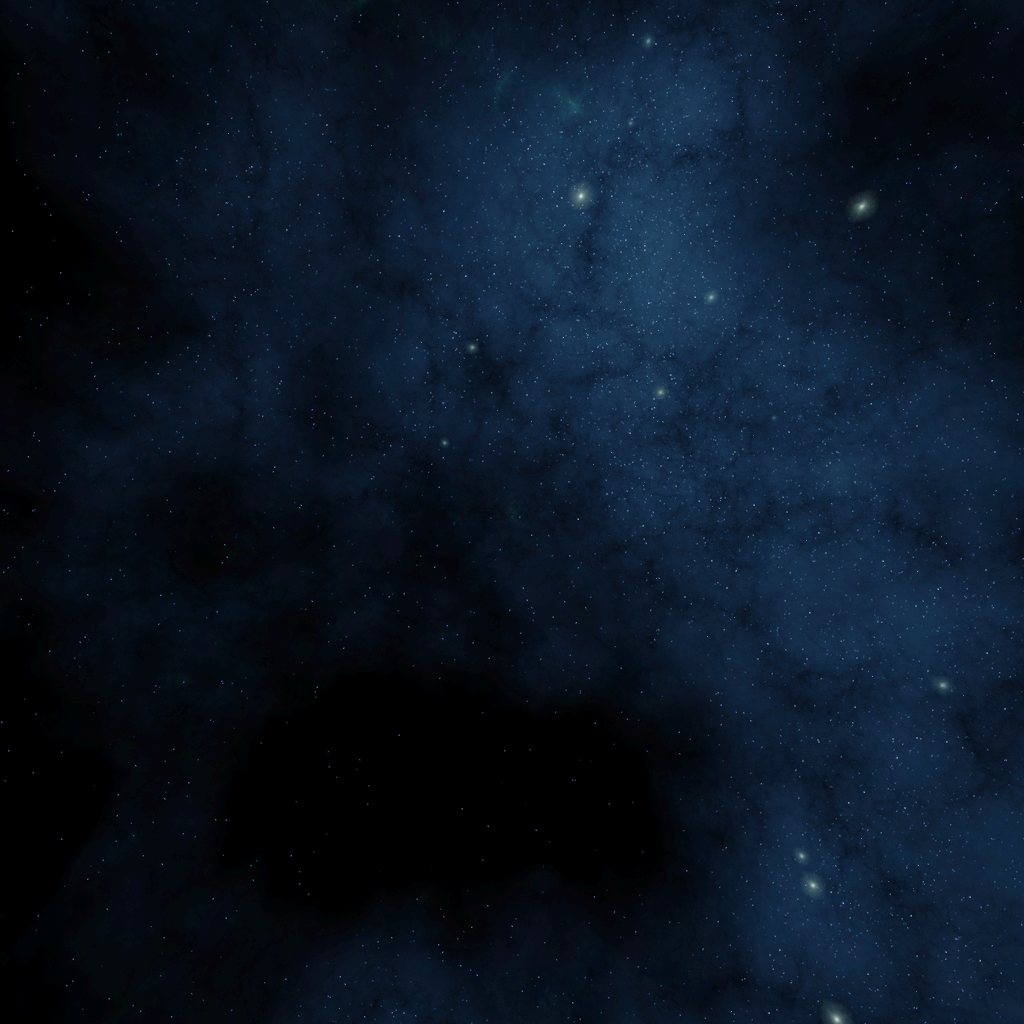
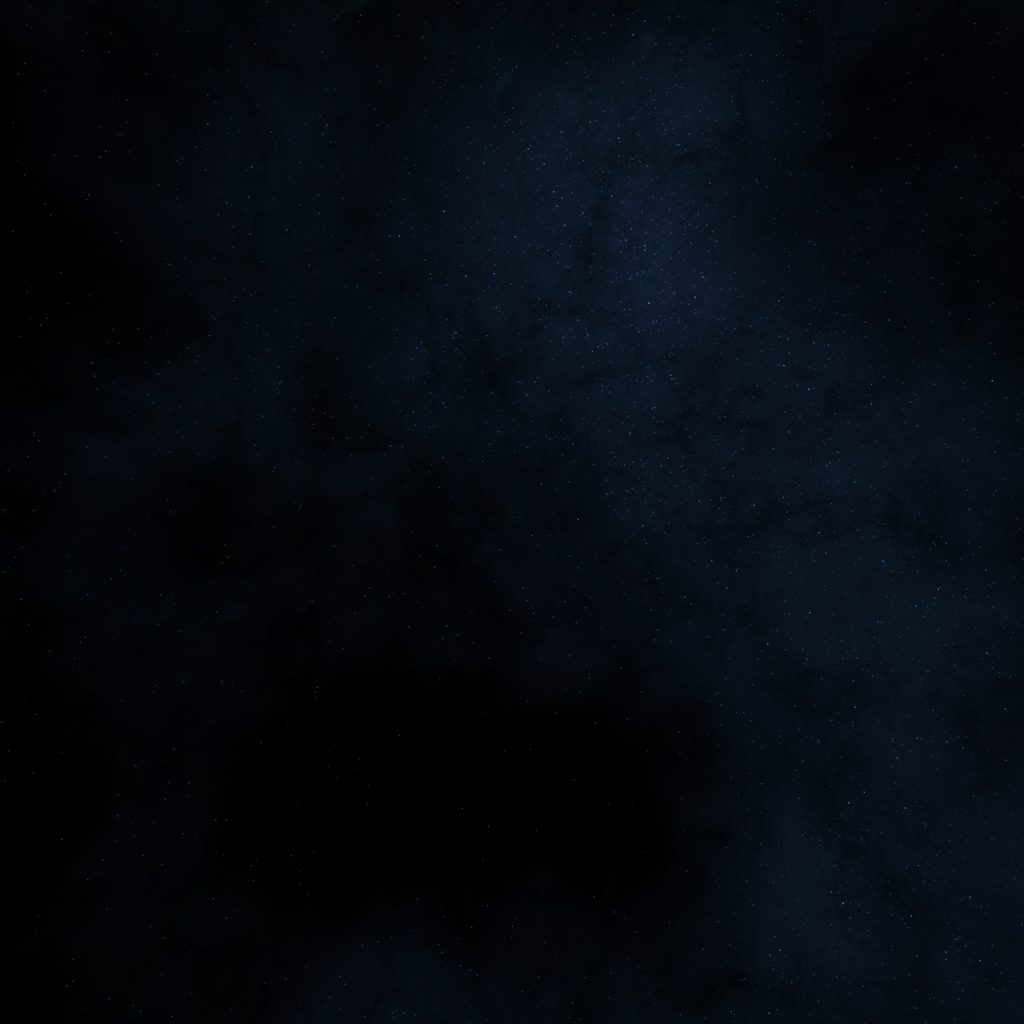
Обновлен скайбокс, обновлен внешний вид моделей

diff --git a/forcegraph/graph/templates/3d_graph.html b/forcegraph/graph/templates/3d_graph.html
@@ -2,8 +2,37 @@
 <!DOCTYPE html>
 <html lang="en">
   <head>
-    <link rel="stylesheet" />
+    <meta charset="UTF-8" />
+    <meta name="viewport" content="width=device-width, initial-scale=1.0" />
+    <title></title>
+    <link
+      href="https://cdn.jsdelivr.net/npm/bootstrap@5.3.0/dist/css/bootstrap.min.css"
+      rel="stylesheet"
+    />
+    <link
+      rel="icon"
+      type="image/png"
+      sizes="16x16"
+      href="https://test.core.talisman.ispras.ru/assets/favicon-16x16.png"
+    />
+    <link
+      rel="icon"
+      type="image/png"
+      sizes="32x32"
+      href="https://test.core.talisman.ispras.ru/assets/favicon-32x32.png"
+    />
+    <link
+      rel="icon"
+      type="image/png"
+      sizes="48x48"
+      href="https://test.core.talisman.ispras.ru/assets/favicon-48x48.png"
+    />
     <style>
+     @font-face {
+  font-family: 'Institut';
+  src: url("{% static 'fonts/Institut.woff2' %}") format('woff2'),
+       url("{% static 'fonts/Institut.woff' %}") format('woff');
+}
       body {
         margin: 0;
         font-family: sans-serif;
@@ -38,7 +67,7 @@
         transition: transform 0.3s ease-in-out;
         padding: 20px;
         overflow-y: auto;
-        z-index: 10;
+        z-index: 1;
       }
 
       #info-panel.active {
@@ -56,9 +85,34 @@
         cursor: pointer;
         font-size: 18px;
       }
+      .acss-12ade3v {
+        margin-left: 10px;
+        font-family: 'Institut', sans-serif;
+        font-size: 20px;
+        line-height: 32px;
+        color: #035ba9;
+        white-space: nowrap;
+        word-break: keep-all;
+      }
+      .acss-lzfym0 {
+        display: flex;
+        position: absolute;
+        top: 16px;
+        left: 24px;
+        height: 32px;
+        width: 236px;
+        z-index: 1;
+      }
     </style>
   </head>
   <body>
+    <div class="acss-lzfym0">
+      <img
[1 lines of base64/hex data omitted]
+        alt="logo"
+      />
+      <div class="acss-12ade3v">3D-GRAPH</div>
+    </div>
     <div id="3d-graph"></div>
     <div id="info-panel">
       <div id="close-btn">✖</div>
@@ -150,6 +204,8 @@
         })
           .graphData(graphData)
           .nodeAutoColorBy('group')
+          .nodeResolution(32)
+          .nodeOpacity(0.9)
           .nodeThreeObject(() => null) // Удалили подписи узлов
           .nodeThreeObjectExtend(true)
           .nodeColor((node) =>
@@ -157,13 +213,19 @@
               ? node === hoverNode
                 ? 'red'
                 : 'orange'
-              : node.color || 'lightblue'
+              : node.color || '#cccccc'
           )
-          .linkWidth((link) => (highlightLinks.has(link) ? 1 : 0.5))
+          .linkWidth((link) => (highlightLinks.has(link) ? 0.5 : 0.3))
+          .linkResolution([32])
+          .linkDirectionalParticleResolution([32])
           .linkDirectionalParticles((link) =>
             highlightLinks.has(link) ? 2 : 0
           )
-          .linkDirectionalParticleWidth(1)
+          .linkDirectionalParticleWidth(0.5)
+
+          .linkDirectionalArrowLength(3)
+          .linkDirectionalArrowRelPos(1)
+          .linkDirectionalArrowResolution(16)
           .onNodeHover((node) => {
             if ((!node && !highlightNodes.size) || hoverNode === node) return;
 
@@ -199,7 +261,7 @@
                   }
                 : { x: 0, y: 0, z: distance };
 
-            Graph.cameraPosition(newPos, node, 3000);
+            Graph.cameraPosition(newPos, node, 1300);
 
             const infoPanel = document.getElementById('info-panel');
             const nameEl = document.getElementById('node-name');
@@ -233,7 +295,7 @@
         const texture = loader.load([
           "{% static 'img/Front.png' %}",
           "{% static 'img/Back.png' %}",
-          "{% static 'img/Up.png' %}",
+          "{% static 'img/UP.png' %}",
           "{% static 'img/Down.png' %}",
           "{% static 'img/Left.png' %}",
           "{% static 'img/Right.png' %}",

diff --git a/forcegraph/graph/templates/auth_form.html b/forcegraph/graph/templates/auth_form.html
@@ -28,6 +28,11 @@
       href="https://test.core.talisman.ispras.ru/assets/favicon-48x48.png"
     />
     <style>
+      @font-face {
+  font-family: 'Institut';
+  src: url("{% static 'fonts/Institut.woff2' %}") format('woff2'),
+       url("{% static 'fonts/Institut.woff' %}") format('woff');
+}
       body {
         display: flex;
         justify-content: center;
@@ -46,7 +51,6 @@
       .acss-12ade3v {
         margin-left: 10px;
         font-family: "Institut", sans-serif;
-        font-weight: 700;
         font-size: 20px;
         line-height: 32px;
         color: #035ba9;

diff --git a/forcegraph/graph/migrations/0001_initial.py b/forcegraph/graph/migrations/0001_initial.py
@@ -2,7 +2,6 @@
 
 from django.db import migrations, models
 
-
 class Migration(migrations.Migration):
 
     initial = True
